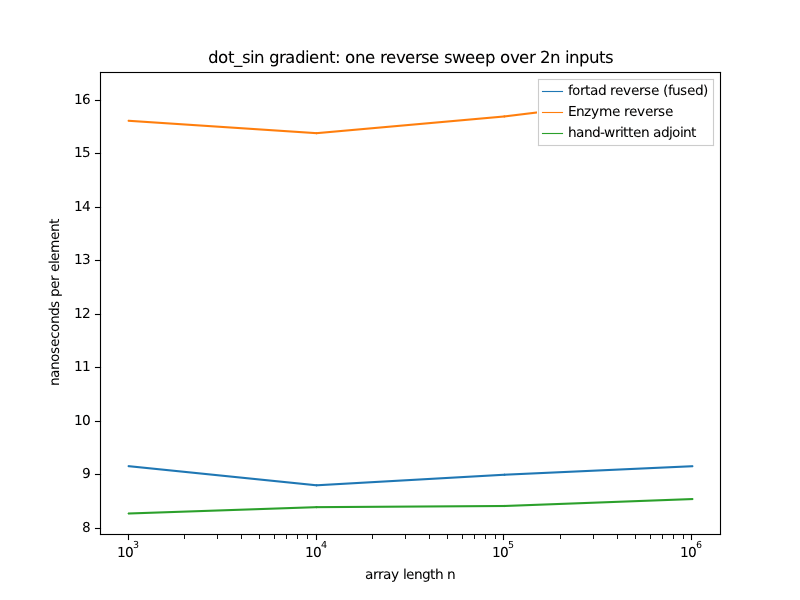
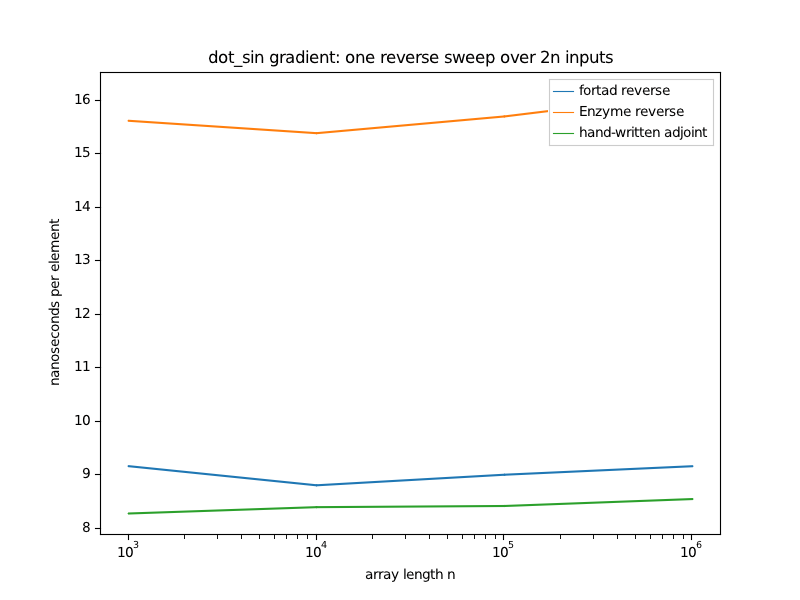
Second benchmark case: gradient of a nonlinear stencil
dot_sin does not exercise scatter adjoints. This case writes a per-element
intermediate to an array and then reduces it, which is the shape a PDE residual
takes and the shape where an AD tool's handling of a written array shows.

Nanoseconds per element on this machine:

  n        fortad   Enzyme   hand-written
  1e3       15.03    31.74    12.87
  1e4       14.15    31.81    12.77
  1e5       14.32    31.44    12.92
  1e6       14.96    31.85    12.88

fortad is 2.1-2.2x faster than Enzyme here, a wider margin than the 1.7-1.8x on
dot_sin, and within 11-17% of the hand-written adjoint.

The extra margin is where the design predicts it: the intermediate array c is
written once per element and read back in the same iteration, so fortad's
scatter adjoint keeps everything in the fused loop and never materialises a
history for c. Both engines have the same information; the difference is what
they can do with it.

The gradient is checked against the analytical one derived by hand for this
kernel before any timing is kept.

Changed region(s): [[0.6875, 0.12, 0.875, 0.24], [0.6562, 0.18, 0.6875, 0.21]]

diff --git a/engines/enzyme_stencil.c b/engines/enzyme_stencil.c
@@ -1,0 +1,13 @@
+/* Enzyme reverse-mode entry point for the stencil kernel. */
+extern int enzyme_dup;
+extern int enzyme_const;
+
+void stencil(int n, const double *a, const double *b, double *s);
+
+extern void __enzyme_autodiff(void *, ...);
+
+void stencil_vjp_enzyme(int n, const double *a, double *ab, const double *b,
+                        double *bb, double *s, double *sb) {
+    __enzyme_autodiff((void *)stencil, enzyme_const, n, enzyme_dup, a, ab,
+                      enzyme_dup, b, bb, enzyme_dup, s, sb);
+}
